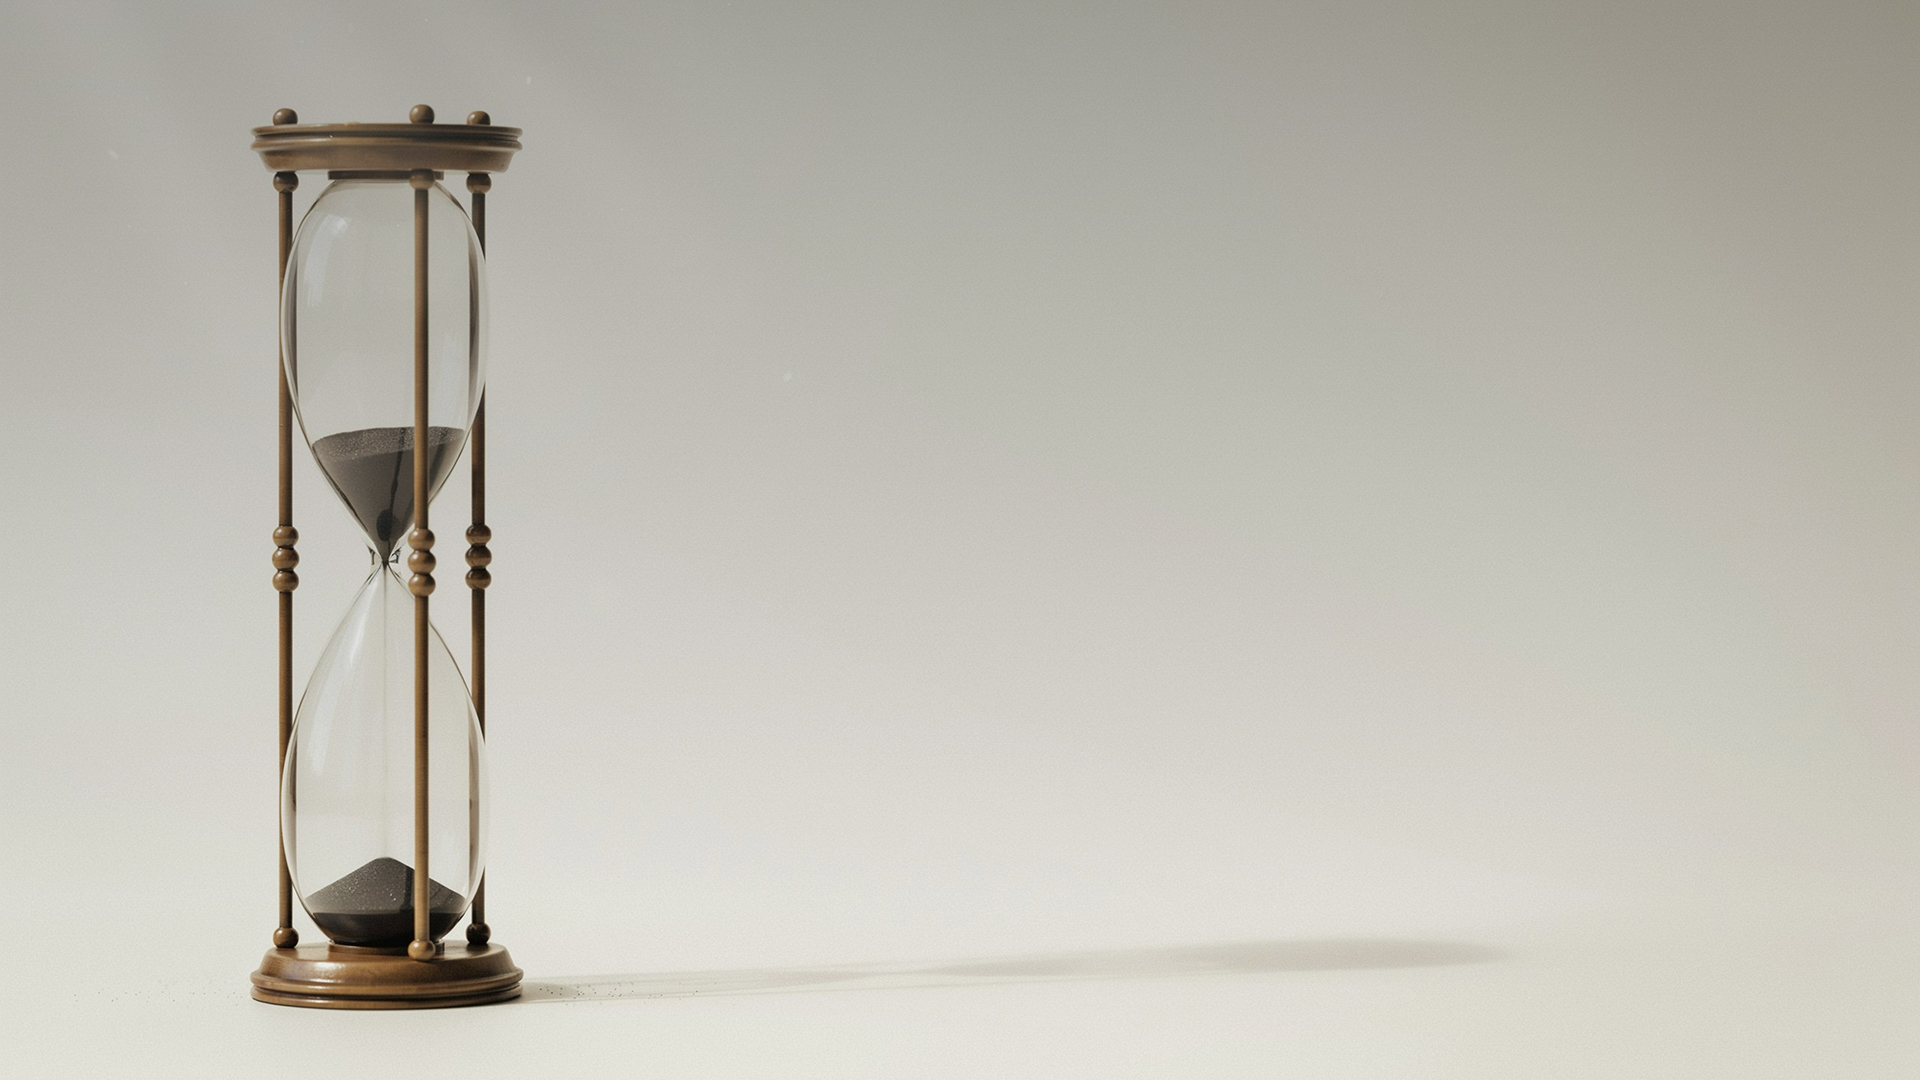
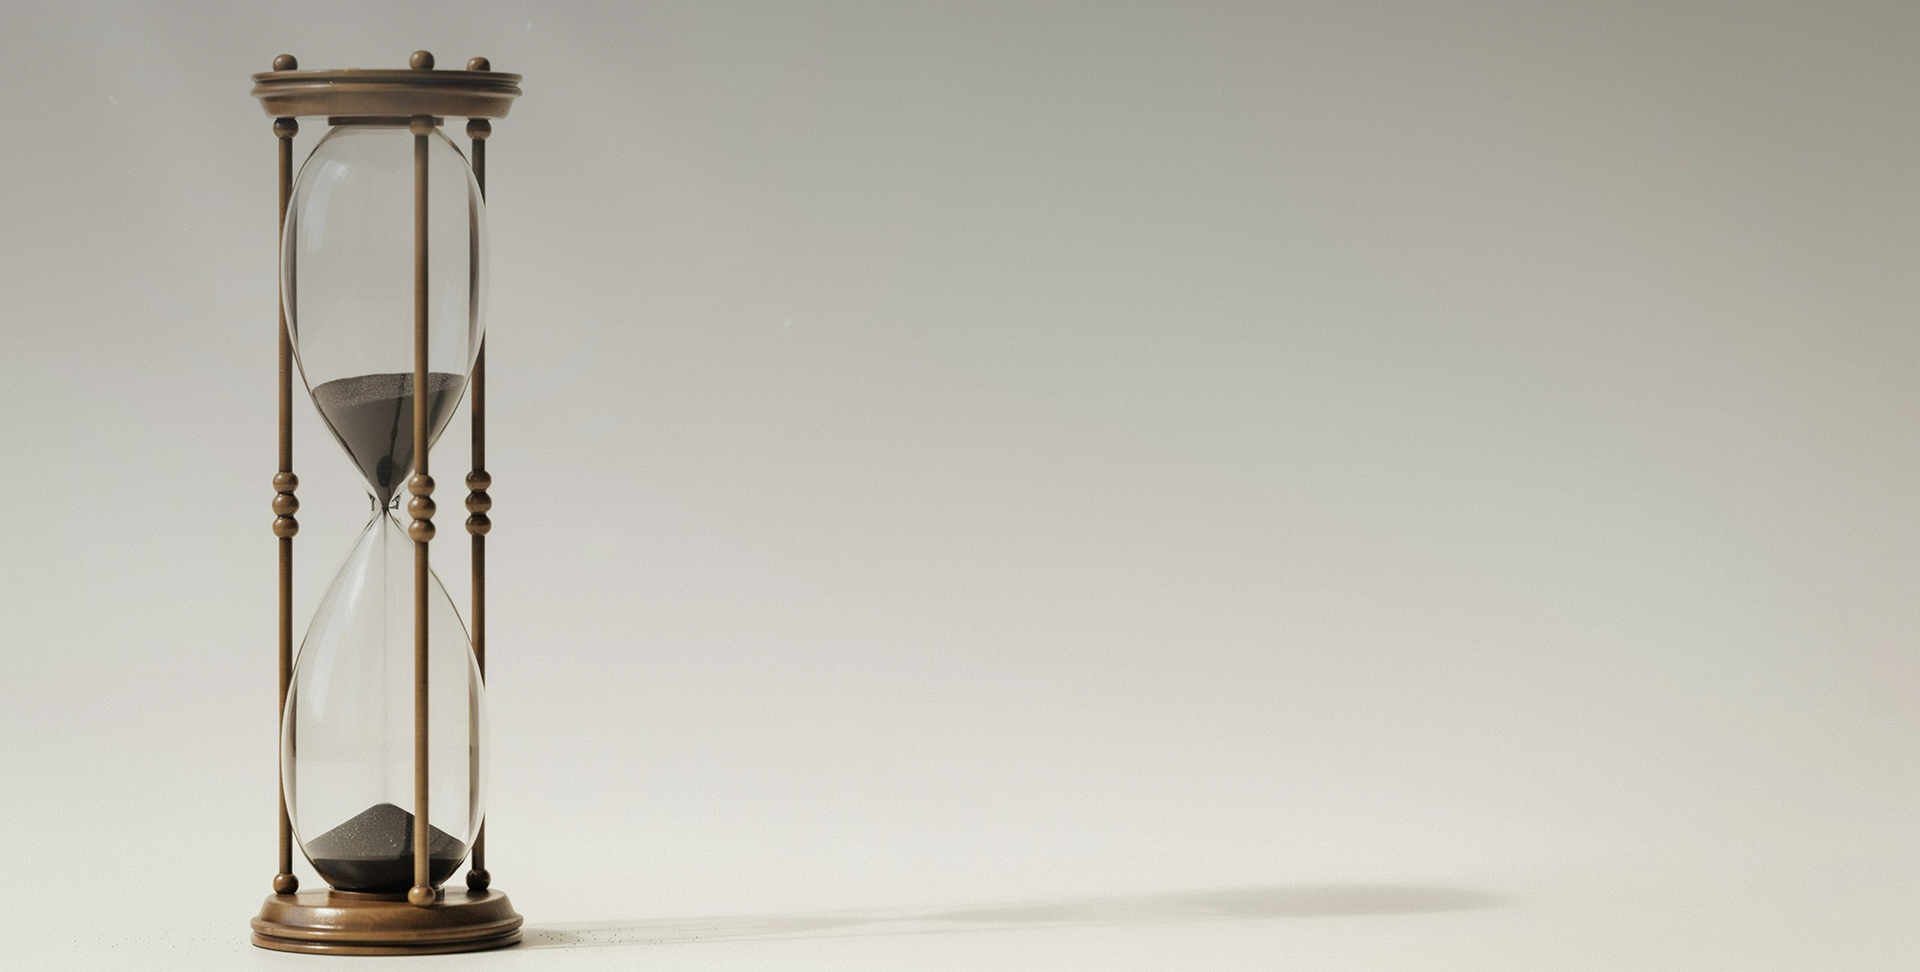
히어로 스와이퍼슬라이드

diff --git a/index.html b/index.html
@@ -4,9 +4,11 @@
     <meta charset="UTF-8">
     <meta name="viewport" content="width=device-width, initial-scale=1.0">
     <title>온밤정신건강의학과</title>
-    <link rel="stylesheet" href="css/style.css">
     <link href="https://hangeul.pstatic.net/hangeul_static/css/nanum-myeongjo.css" rel="stylesheet">   <!-- 나눔명조  CDN -->
+    <link rel="stylesheet" href="https://cdn.jsdelivr.net/npm/swiper@12/swiper-bundle.min.css"/>
+    <link rel="stylesheet" href="css/style.css">
     <script src="js/action.js" defer></script>
+    
     
 </head>
 <body>
@@ -71,25 +73,62 @@
     
 
 
-        <ul class="hero-set">
-            <li class="hero">
-                <div class="hero--float-box">
-                    <div class="hero--float-box-txt">
-                        <span>마음의 안식을 찾는 첫 걸음,</span>
-                        <div class="hero--float-box-txt2">
-                            <span>온밤</span>
-                            <span>이 함께 하겠습니다.</span>
+        <div class="swiper">
+            <!-- Additional required wrapper -->
+            <div class="swiper-wrapper">
+                <div class="swiper-slide hero hero1">
+                    <div class="hero--float-box">
+                        <div class="hero--float-box-txt">
+                            <span>마음의 안식을 찾는 첫 걸음,</span>
+                            <div class="hero--float-box-txt2">
+                                <span>온밤</span>
+                                <span>이 함께 하겠습니다.</span>
+                            </div>
                         </div>
+
+                        <a href="/" class="hero--float-box--cta">
+                            <span>병원소개</span>
+                            <i data-lucide="chevron-right"></i>  
+                        </a>    
                     </div>
-
-                    <a href="/" class="hero--float-box--cta">
-                        <span>병원소개</span>
-                        <i data-lucide="chevron-right"></i>  
-                    </a>    
                 </div>
-            </li>
-        </ul>
 
+                <div class="swiper-slide hero hero2">
+                    <div class="hero--float-box">
+                        <div class="hero--float-box-txt">
+                            <span>사소한 실수가 반복되고 잠 못 드는 밤이 길어진다면,</span>
+                            <span>무너진 일상의 리듬을 다시 회복할 시간입니다.</span>
+                        </div>
+
+                        <a href="/" class="hero--float-box--cta">
+                            <span>진료안내</span>
+                            <i data-lucide="chevron-right"></i>  
+                        </a>    
+                    </div>
+                </div>
+
+                <div class="swiper-slide hero hero3">
+                    <div class="hero--float-box">
+                        <div class="hero--float-box-txt">
+                            <span>반복되는 불안과 깊어지는 무기력 속에서,</span>
+                            <span>당신의 하루가 다시 편안해질 수 있도록 함께합니다.</span>
+                        </div>
+
+                        <a href="/" class="hero--float-box--cta">
+                            <span>진료안내</span>
+                            <i data-lucide="chevron-right"></i>  
+                        </a>    
+                    </div>
+                </div>
+               
+            </div>
+            <div class="swiper-pagination"></div>
+            <div class="swiper-button-prev"></div>
+            <div class="swiper-button-next"></div>
+
+        </div>
+
+        
         <div class="hero-bottom">
             <div class="hero-bottom--time">
                 <div>
@@ -141,5 +180,6 @@
 
     <script src="https://unpkg.com/lucide@latest"></script>    <!-- 아이콘 사용위한 cdn  맨밑유지하기-->
     <script>lucide.createIcons(); </script>     <!-- 아이콘 사용하기 위한 -->
+    <script src="https://cdn.jsdelivr.net/npm/swiper@12/swiper-bundle.min.js"></script> <!-- 스와이퍼슬라이드라이브러리 -->
 </body>
 </html>

diff --git a/css/style.css b/css/style.css
@@ -14,6 +14,7 @@ header{
     display: flex; justify-content: space-between; align-items: center;
     padding:30px; box-sizing: border-box; width: 100%; 
     position: absolute; top: 0; left: 0;
+    z-index: 3;
 }
 h2.header--logo{width: 175px; height: 29px;}
 h2.header--logo > a{width: 100%; height:100%; display: inline-block;}
@@ -90,13 +91,18 @@ ul.header--gnb{display: flex; gap: var(--vw-40px); position: relative; user-sele
 
 
 /* 히어로 */
-.hero:nth-of-type(1){
-    width: 100%; height: 90vh;
-    background: url(../img/hero1.jpg); background-size: cover; background-position: center;
-}
+/* 공통 스타일 유지 */
+.hero {width: 100%; height: 90vh; background-size: cover; background-position: center;}
+.hero1 {background-image: url(../img/hero1.jpg);}
+.hero2 {background-image: url(../img/hero2.jpg);}
+.hero3 {background-image: url(../img/hero3.jpg);}
 
-.hero--float-box{display: flex; flex-direction: column; gap: 43px; align-items: end; width: fit-content; color: var(--wh2); font-family: 'NanumMyeongjo'; position: absolute; top: 30%; right: 10%;}
-.hero--float-box-txt{display: flex; flex-direction: column; gap: 16px; font-size: clamp(var(--deco-fz32-min),var(--deco-fz32-mid),var(--deco-fz32)); user-select: none;}
+.hero--float-box{display: flex; flex-direction: column; gap: 43px; align-items: end; width: fit-content; color: var(--wh2); font-family: 'NanumMyeongjo'; position: absolute; top: 35%; right: 10%;}
+.hero--float-box-txt{
+    display: flex; flex-direction: column; gap: 16px; align-items: end;
+    font-size: clamp(var(--deco-fz32-min),var(--deco-fz32-mid),var(--deco-fz32)); 
+    user-select: none;
+}
 .hero--float-box-txt2{display: flex; gap: 16px; align-items: end;}
 .hero--float-box-txt2 > span:nth-of-type(1){font-size: clamp(var(--deco-fz50-min),var(--deco-fz50-mid),var(--deco-fz50)); color: var(--wh1);}
 
@@ -111,6 +117,7 @@ ul.header--gnb{display: flex; gap: var(--vw-40px); position: relative; user-sele
     display: flex; gap: 5.2vw; align-items: center; justify-content: center;
     padding: 20px; width: 100%; box-sizing: border-box;
     background: var(--main-color); color: var(--wh1);
+    user-select: none;
 }
 
 .hero-bottom--time{display: flex; gap: 4.16vw; align-items: center;}
@@ -118,3 +125,4 @@ ul.header--gnb{display: flex; gap: var(--vw-40px); position: relative; user-sele
 .hero-bottom--time > span{width: 4px; height: 4px; border-radius: 4px; display: inline-block; background: var(--wh2);}
 .hero-bottom--divider{width: 1px; height: 15px; display: inline-block; background: var(--wh2);}
 .hero-bottom--tel{}
+

diff --git a/js/action.js b/js/action.js
@@ -1,0 +1,26 @@
+//히어로 슬라이드스와이퍼
+
+const swiper = new Swiper('.swiper', {
+  
+  loop: true,
+  direction: 'horizontal',
+  slidesPerView: 1,       // 한 번에 보여줄 슬라이드 개수
+  spaceBetween: 0,
+
+  pagination: {
+    el: '.swiper-pagination',
+    clickable: true,
+  },
+
+  navigation: {
+    nextEl: '.swiper-button-next',
+    prevEl: '.swiper-button-prev',
+  },
+
+   autoplay: {
+   delay: 5000,
+ },
+
+
+});
+

diff --git a/css/variable.css b/css/variable.css
@@ -47,4 +47,8 @@
 
     --vw-40px:2vw;
 
+    /* 슬라이드스와이퍼 */
+    --swiper-navigation-color:#bba990;
+    --swiper-theme-color:#fff5e2;
+    --swiper-pagination-bullet-inactive-color:#fff;
 }
